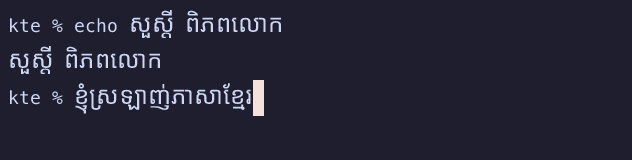
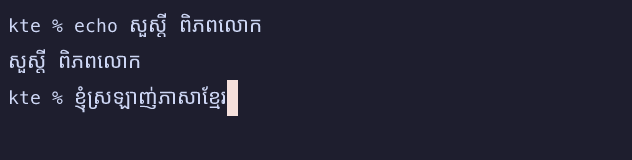
fix(kte-term): default Khmer size 1.2 cells per consonant in Legacy and Compact
1.4 looked too large next to Latin text in real use; 1.2 matches the
Khmer body to Latin capital height.

Changed region(s): [[0.1203, 0.5, 0.4209, 0.75], [0.0, 0.2812, 0.2706, 0.4688], [0.2104, 0.0625, 0.4509, 0.25]]

diff --git a/apps/kte-term/src/main.rs b/apps/kte-term/src/main.rs
@@ -32,7 +32,7 @@ OPTIONS:
     --font-size <PX>      Latin font size in pixels [default: 15]
     --line-height <X>     Row height as a multiple of the font's line height [default: 1.7]
     --khmer-fill <X>      Khmer size: how many of its cells a Khmer consonant spans,
-                          0.5-2.0 [default: 1.4 for legacy and compact, 1.0 for wide]
+                          0.5-2.0 [default: 1.2 for legacy and compact, 1.0 for wide]
     --model <MODEL>       Khmer cell model [default: legacy]
                             legacy   match the system wcwidth() so today's shells and
                                      editors line up (glibc rules on Linux, Apple's on macOS)
@@ -128,7 +128,7 @@ fn parse_args() -> Result<Options, String> {
         // Words may take the room they need (see render.rs), so Khmer can be
         // drawn at a size that balances with Latin. Wide already gives a
         // consonant 2 cells.
-        o.sizing.khmer_fill = if o.model == CellModel::Wide { 1.0 } else { 1.4 };
+        o.sizing.khmer_fill = if o.model == CellModel::Wide { 1.0 } else { 1.2 };
     }
     Ok(o)
 }

diff --git a/CHANGELOG.md b/CHANGELOG.md
@@ -26,7 +26,7 @@ adheres to [Semantic Versioning](https://semver.org/spec/v2.0.0.html).
 - `kte-term` MVP: window, shell on a pty, CPU rendering with HarfBuzz-shaped Khmer, keyboard and IME input, mouse selection, copy and paste (bracketed paste), `--snapshot` mode with live shell typing, macOS app bundle script.
 - `kte-terminal`: application cursor keys (mode 1) and bracketed paste (mode 2004); Legacy-model cell segmentation.
 - `kte-cell`: `fit_with_stretch`.
-- `kte-term`: Khmer words keep one natural size ("grid in logic, flow in pixels" layout) instead of being squeezed syllable by syllable; larger default Khmer size in Legacy mode; glyphs stay visible under the block cursor; `--dump`.
+- `kte-term`: Khmer words keep one natural size ("grid in logic, flow in pixels" layout) instead of being squeezed syllable by syllable; default Khmer size 1.2 cells per consonant in Legacy mode; glyphs stay visible under the block cursor; `--dump`.
 - Research 0003 (shell compatibility); ADR 0005 (kte-term architecture).
 - CI: kte-term snapshots on Linux, macOS and Windows, including typing Khmer into bash.
 - Research 0002: the spec table fits Linux default fonts (98–100%) and Windows' Leelawadee UI (80–86%); `Measure fonts` workflow.

diff --git a/apps/kte-term/README.md b/apps/kte-term/README.md
@@ -54,7 +54,7 @@ bash needs no setting.
 --model <MODEL>       legacy (default), wide, compact, legacy-glibc, legacy-apple
 --font-size <PX>      Latin font size in pixels [default: 15]
 --line-height <X>     Row height as a multiple of the font's line height [default: 1.7]
---khmer-fill <X>      Khmer size in cells per consonant, 0.5-2.0 [default: 1.4 legacy/compact, 1.0 wide]
+--khmer-fill <X>      Khmer size in cells per consonant, 0.5-2.0 [default: 1.2 legacy/compact, 1.0 wide]
 --rows <N>, --cols <N>
 --snapshot <FILE>     Render to a PNG instead of opening a window
 --text <TEXT>         Text for --snapshot
